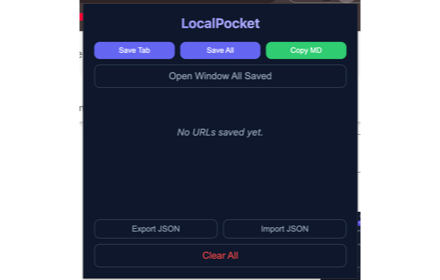
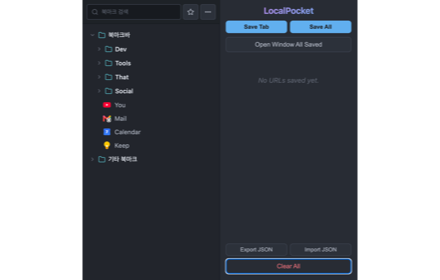
feat: update extension metadata and documentation to reflect new bookmark management features

diff --git a/walkthrough.md b/walkthrough.md
@@ -19,8 +19,9 @@
    - 상단 액션바에서 `Copy MD` 버튼 삭제 및 관련 스크립트 실행 로직 정리.
    - 상단 저장 버튼 영역을 `Save Tab`, `Save All` 2개로 깔끔하게 정리.
 
-4. **저장된 링크 항목 높이 3/4 축소 (`style.css`)**:
-   - 각 링크 카드(`li`)의 내부 패딩(`5px 8px`), 줄간격, 여백 및 폰트 크기(`0.8rem` / `0.6875rem` / `0.6rem`), 삭제 버튼 크기를 최적화하여 **카드의 전체 높이를 기존 대비 3/4 크기로 컴팩트하게 축소**. 한 화면에 훨씬 많은 링크가 표시되도록 개선.
+5. **스크린샷 리사이즈 및 생성 (`images/screenshot*.png`)**:
+   - `images/image.png`의 팝업 창 영역을 픽셀 단위로 정밀 크롭(1140×1160, 2x Retina 해상도)하여 `screenshot.png` 생성.
+   - `./generate-screenshots.sh`를 실행하여 크롬 웹스토어용 프로모션 규격 타일 이미지(`screenshot-440x280.png`, `screenshot-640x400.png`) 각각 생성 완료.
 
 3. **두 번째 라인 툴바 제거 및 검색/트리 구조 최적화**:
    - 요청에 따라 두 번째 줄의 아이콘 툴바를 완전히 제거.
